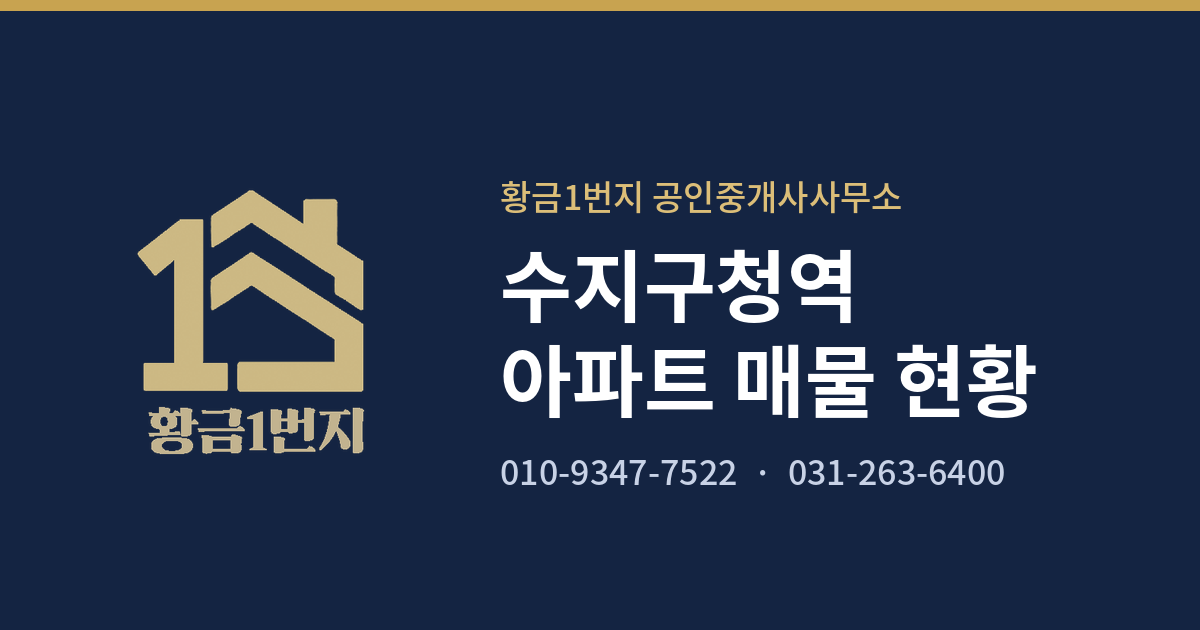
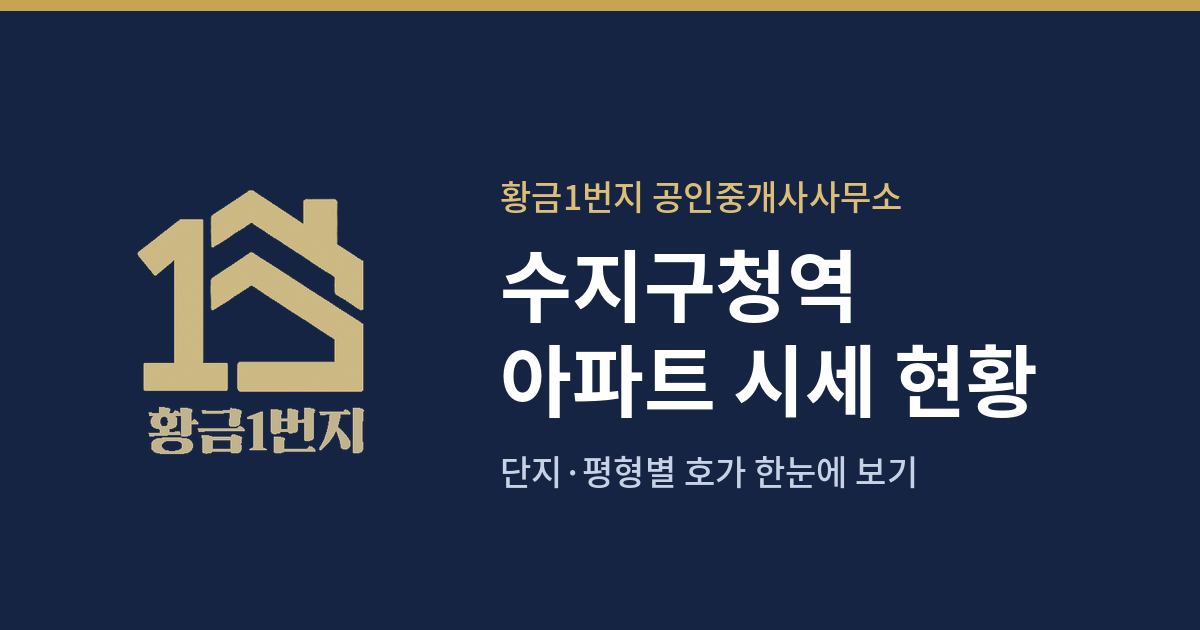
개별 매물 목록을 단지·평형별 호가 시세 페이지로 변경
Claude-Session: https://claude.ai/code/session_01WxQm7nJK9gw7HmsuEXQiTg

Changed region(s): [[0.4008, 0.7238, 0.8325, 0.7841], [0.6167, 0.5429, 0.74, 0.6635]]

diff --git a/index.html b/index.html
@@ -3,10 +3,10 @@
 <head>
 <meta charset="utf-8">
 <meta name="viewport" content="width=device-width, initial-scale=1">
-<title>수지구청역 아파트 매물 현황 | 황금1번지 공인중개사사무소</title>
-<meta name="description" content="수지구청역 아파트 매물 현황 · 황금1번지 공인중개사사무소 010-9347-7522 / 031-263-6400">
+<title>수지구청역 아파트 시세 현황 | 황금1번지 공인중개사사무소</title>
+<meta name="description" content="수지구청역 주변 아파트 단지·평형별 호가 시세 · 황금1번지 공인중개사사무소 010-9347-7522 / 031-263-6400">
 <meta property="og:type" content="website">
-<meta property="og:title" content="수지구청역 아파트 매물 현황">
+<meta property="og:title" content="수지구청역 아파트 시세 현황">
 <meta property="og:description" content="황금1번지 공인중개사사무소 · 010-9347-7522 / 031-263-6400">
 <meta property="og:url" content="https://kym07-30.github.io/">
 <meta property="og:site_name" content="황금1번지 공인중개사사무소">
@@ -162,6 +162,37 @@ input{-webkit-user-select:text;user-select:text}
   table.av tr.tsub + tr{border-top:0}
 }
 </style>
+<style>
+.note{font-size:13px;color:var(--muted);margin:-8px 0 0}
+.seg{display:inline-flex;border:1px solid var(--line);border-radius:10px;overflow:hidden;background:var(--surface)}
+.seg button{border:0;border-radius:0;padding:8px 18px;font-weight:600}
+.seg button[aria-pressed="true"]{background:var(--ink);color:var(--bg)}
+.cards{display:grid;grid-template-columns:repeat(auto-fill,minmax(340px,1fr));gap:14px}
+.mk{background:var(--surface);border:1px solid var(--line);border-radius:12px;padding:16px 18px;display:flex;flex-direction:column;gap:10px}
+.mk h2{margin:0;font-family:var(--font-display);font-size:18px;display:flex;align-items:baseline;gap:8px;flex-wrap:wrap}
+.mk h2 small{font-size:13px;font-weight:500;color:var(--muted)}
+.mk .med{font-family:var(--font-display);font-size:28px;font-weight:700;color:var(--gold);font-variant-numeric:tabular-nums;line-height:1.1}
+.mk .med span{font-size:13px;font-weight:500;color:var(--muted);margin-left:6px;font-family:var(--font-body)}
+.rng{position:relative;height:8px;border-radius:99px;background:var(--line);margin:14px 0 4px}
+.rng .bar{position:absolute;top:0;bottom:0;border-radius:99px;background:color-mix(in srgb,var(--gold) 45%,transparent)}
+.rng .dot{position:absolute;top:50%;width:14px;height:14px;border-radius:50%;background:var(--gold);border:2px solid var(--surface);transform:translate(-50%,-50%)}
+.rlab{display:flex;justify-content:space-between;font-size:12.5px;color:var(--muted);font-variant-numeric:tabular-nums}
+.rlab b{color:var(--ink);font-weight:600}
+.tags{display:flex;gap:6px;flex-wrap:wrap}
+.tag{font-size:12px;border-radius:6px;padding:2px 8px;background:var(--bg);color:var(--muted);border:1px solid var(--line)}
+.tag.new{background:#dcecff;color:#1d5fa8;border-color:transparent}
+.tag.dn{background:var(--wolse-soft);color:var(--wolse);border-color:transparent}
+.empty{padding:30px;text-align:center;color:var(--muted);border:1px dashed var(--line);border-radius:12px}
+.src{background:var(--surface);border:1px solid var(--line);border-radius:12px;padding:14px 18px;font-size:13px;color:var(--muted);line-height:1.7}
+.src b{color:var(--ink)}
+.src p{margin:0}
+.cta{display:flex;flex-wrap:wrap;gap:10px;align-items:center;justify-content:space-between;background:var(--navy);color:#fff;border-radius:12px;padding:16px 18px}
+.cta .t{font-family:var(--font-display);font-size:17px;font-weight:700}
+.cta .s{font-size:13px;opacity:.8}
+.cta button{background:var(--gold);color:#fff;border-color:var(--gold);font-weight:700;padding:10px 16px}
+@media (prefers-color-scheme: dark){.cta{background:#24304a}}
+@media (max-width:420px){.cards{grid-template-columns:1fr}}
+</style>
 </head>
 <body>
 <div class="wm" aria-hidden="true"></div>
@@ -177,7 +208,7 @@ input{-webkit-user-select:text;user-select:text}
 </div>
 <div class="toast" id="toast" hidden></div>
 <div class="wrap">
-  <section class="topbar" aria-label="중개사무소 정보">
+  <section class="topbar" aria-label="사무소 정보">
     <div class="office">
[1 lines of base64/hex data omitted]
       <div class="oname">황금1번지<br>공인중개사사무소</div>
@@ -190,225 +221,62 @@ input{-webkit-user-select:text;user-select:text}
   <header>
     <div>
       <div class="brand">황금1번지 공인중개사사무소</div>
-      <h1>수지구청역 아파트 매물 현황</h1>
+      <h1>수지구청역 아파트 시세 현황</h1>
     </div>
-    <div class="asof">2026년 11월 8일 기준</div>
+    <div class="asof">호가 기준 · 2026년 11월 8일 집계</div>
   </header>
 
-  <section class="stats" id="statsA" aria-label="계약가능 요약"></section>
-  <section class="controls" aria-label="필터">
-    <div class="chiprow" id="typeChipsA" role="group" aria-label="거래 유형"></div>
-    <div class="chiprow" id="groupChipsA" role="group" aria-label="단지·평형"></div>
-    <div class="chiprow" id="quickRow">
-      <label class="sortbox"><span class="lab">정렬</span>
-        <select id="sortA" aria-label="정렬">
-          <option value="dong">동 번호순</option>
-          <option value="priceAsc">낮은 가격순</option>
-          <option value="priceDesc">높은 가격순</option>
-          <option value="floorDesc">고층순</option>
-          <option value="floorAsc">저층순</option>
-        </select>
-      </label>
-      <button type="button" class="chip tog" id="tNew" aria-pressed="false">🆕 이번 주 신규만</button>
-      <button type="button" class="chip tog" id="tDown" aria-pressed="false">⬇ 가격 내린 매물만</button>
-    </div>
-    <details class="more" id="moreF">
-      <summary>상세 필터 <span class="morehint">가격대 · 입주 · 집 상태</span><span class="morecnt" id="moreCnt"></span></summary>
-      <div class="morebody">
-        <div class="chiprow" id="priceChips" role="group" aria-label="가격대"></div>
-        <div class="chiprow" id="moveChips" role="group" aria-label="입주 형태"></div>
-        <div class="chiprow" id="whenChips" role="group" aria-label="입주 시기"></div>
-        <div class="chiprow" id="condChips" role="group" aria-label="집 상태"></div>
-        <p class="fnote">입주·집 상태는 매물 메모를 기준으로 나눈 것이라 실제와 다를 수 있어요. 정확한 내용은 문의해 주세요.</p>
-      </div>
-    </details>
-    <input type="search" id="qA" placeholder="동, 층, 가격, 메모 검색">
-    <div class="resbar"><span id="resCnt"></span><button type="button" id="resetF" hidden>필터 초기화</button></div>
+  <p class="note">수지구청역 주변 아파트의 단지·평형별 <b>호가(집주인이 내놓은 희망 가격)</b> 분포를 한눈에 볼 수 있게 정리했어요. 실제 거래가격이 아니에요.</p>
+  <section class="stats" id="stats" aria-label="요약"></section>
+  <section class="controls" aria-label="보기">
+    <div class="chiprow"><div class="seg" role="group" aria-label="거래 유형"><button type="button" data-t="sale" aria-pressed="true">매매</button><button type="button" data-t="jeon" aria-pressed="false">전세</button></div></div>
+    <div class="chiprow" id="cxChips" role="group" aria-label="단지"></div>
   </section>
-  <div id="listA" style="display:flex;flex-direction:column;gap:16px" aria-live="polite"></div>
-
-  <footer>2026년 11월 8일 기준 계약 가능한 매물입니다. 가격·상태는 바뀔 수 있으니 문의 시 다시 확인해 주세요. · 황금1번지 공인중개사사무소 010-9347-7522 / 031-263-6400 · 무단 복제·배포를 금합니다.</footer>
+  <section class="cards" id="cards" aria-live="polite"></section>
+  <section class="cta"><div><div class="t">원하는 조건의 집이 있는지 궁금하세요?</div><div class="s">단지·평형·층·입주 시기에 맞춰 바로 안내해 드려요.</div></div><button type="button" class="tel" data-num="010-9347-7522" data-sms="1">문의하기</button></section>
+  <section class="src">
+    <p><b>데이터 출처 · 집계 기준</b></p>
+    <p>· 네이버 부동산 등록 매물의 호가를 황금1번지가 단지·평형별로 정리했어요 (2026.11.08 기준).</p>
+    <p>· 호가는 매도·임대 희망가격이며 실제 거래가격이 아니에요. 같은 매물이 여러 번 등록된 경우 일부 중복될 수 있어요.</p>
+    <p>· 중간 호가 = 같은 단지·평형 호가를 낮은 순으로 세웠을 때 한가운데 가격(중앙값)이에요.</p>
+    <p>· 집마다 조건이 달라 모든 수치는 참고자료로만 활용해 주세요.</p>
+  </section>
+  <footer>황금1번지 공인중개사사무소 · 010-9347-7522 / 031-263-6400 · 무단 복제·배포를 금합니다.</footer>
 </div>
 
 <script>
 (function(){
-  // g 단지·평형, k 순서, t 거래, c 구분, d 동, f 층, p 가격, m 상태·메모, x 가격변동, n 이번 주 신규
-  const DATA = [{"g": "삼성5차 34평", "k": 101, "t": "매매", "c": "삼성5차 34", "d": "510", "f": "9/14", "p": "14.9", "m": "기본 관리잘됨,/ 15->14.9", "x": "15→14.9", "n": 0}, {"g": "삼성5차 34평", "k": 101, "t": "매매", "c": "삼성5차 34", "d": "515", "f": "1/17", "p": "13.6", "m": "세안고.28.2 /5.72/갱신사용", "x": "", "n": 0}, {"g": "삼성5차 34평", "k": 101, "t": "매매", "c": "삼성5차 34", "d": "515", "f": "9/17", "p": "15", "m": "28.2.4 / 세안고", "x": "15.5→15", "n": 0}, {"g": "삼성5차 34평", "k": 101, "t": "매매", "c": "삼성5차 34", "d": "515", "f": "14/17", "p": "15", "m": "협의.부분/깔끔/확장x. 3~4", "x": "", "n": 0}, {"g": "삼성5차 34평", "k": 101, "t": "매매", "c": "삼성5차 34", "d": "516", "f": "10/14", "p": "14.9", "m": "약15년 수리/ 전망좋음/ 주인거주 깔끔", "x": "", "n": 0}, {"g": "삼성5차 34평", "k": 101, "t": "매매", "c": "삼성5차 34", "d": "518", "f": "9/12", "p": "15", "m": "부분수리(상태좋음)/ 입주협 / 3호", "x": "", "n": 0}, {"g": "삼성5차 34평", "k": 101, "t": "매매", "c": "삼성5차 34", "d": "523", "f": "7/19", "p": "15", "m": "올수리 27.3 이후입주", "x": "", "n": 0}, {"g": "삼성5차 34평", "k": 101, "t": "매매", "c": "삼성5차 34", "d": "523", "f": "12/19", "p": "14.8", "m": "기본.27.2.28  / 15->14.8", "x": "15→14.8", "n": 0}, {"g": "삼성5차 34평", "k": 101, "t": "매매", "c": "삼성5차 34", "d": "524", "f": "6/10", "p": "14.8", "m": "확장x기본 협의", "x": "", "n": 0}, {"g": "삼성5차 34평", "k": 101, "t": "전세", "c": "삼성5차 34", "d": "526", "f": "15/19", "p": "7.5", "m": "기본, 12.10", "x": "", "n": 0}, {"g": "삼성5차 50평", "k": 2801, "t": "매매", "c": "삼성5차 50", "d": "504", "f": "6/10", "p": "18.5", "m": "올수리,시에포함,", "x": "", "n": 0}, {"g": "삼성5차 50평", "k": 2801, "t": "매매", "c": "삼성5차 50", "d": "509", "f": "저/17", "p": "16", "m": "세안고 27.10", "x": "", "n": 0}, {"g": "삼성5차 50평", "k": 2801, "t": "매매", "c": "삼성5차 50", "d": "522", "f": "2/19", "p": "14.5", "m": "화이트 올수리/공실 /201", "x": "14-14.5", "n": 0}, {"g": "삼성5차 50평", "k": 2801, "t": "매매", "c": "삼성5차 50", "d": "522", "f": "6/19", "p": "14.5", "m": "부분수리(욕실)/세안고 27.6", "x": "", "n": 0}, {"g": "삼성5차 50평", "k": 2801, "t": "매매", "c": "삼성5차 50", "d": "525", "f": "15/19", "p": "15.5", "m": "올수리/트인뷰/평일오후/27.2/ 1호", "x": "", "n": 0}, {"g": "삼성5차 50평", "k": 2801, "t": "매매", "c": "삼성5차 50", "d": "525", "f": "13/19", "p": "16.8", "m": "작은방3확장/3~4년수리/", "x": "", "n": 0}, {"g": "삼성6차·7차 63·64평", "k": 4801, "t": "매매", "c": "삼성6차 64", "d": "611", "f": "고/10", "p": "17", "m": "입주협/27.2.28", "x": "", "n": 1}, {"g": "삼성6차·7차 63·64평", "k": 4801, "t": "매매", "c": "삼성7차 63", "d": "705", "f": "3/12", "p": "16", "m": "기본,27.01", "x": "", "n": 0}, {"g": "삼성6차·7차 63·64평", "k": 4801, "t": "매매", "c": "삼성7차 63", "d": "706", "f": "5/13", "p": "16.5", "m": "협의,기본", "x": "", "n": 0}, {"g": "삼성6차·7차 63·64평", "k": 4801, "t": "매매", "c": "삼성7차 63", "d": "706", "f": "13/13", "p": "16", "m": "화올/탑층/다락/방4", "x": "", "n": 0}, {"g": "삼성6차·7차 63·64평", "k": 4801, "t": "전세", "c": "삼성7차 63", "d": "705", "f": "8/12", "p": "8", "m": "싱크,욕실수리", "x": "", "n": 0}, {"g": "성원상떼빌 24/18평", "k": 6601, "t": "매매", "c": "성원 24", "d": "109", "f": "12/20", "p": "9.6", "m": "방거확/ 협의", "x": "", "n": 0}, {"g": "성원상떼빌 24/18평", "k": 6601, "t": "매매", "c": "성24", "d": "110", "f": "8/20", "p": "9.8", "m": "입주협/ 방거확,부분수리", "x": "", "n": 1}, {"g": "성원상떼빌 24/18평", "k": 6601, "t": "매매", "c": "성 24", "d": "110", "f": "15/20", "p": "9.6", "m": "샷시포함 올수리.", "x": "", "n": 0}, {"g": "성원상떼빌 24/18평", "k": 6601, "t": "매매", "c": "성24", "d": "111", "f": "13/20", "p": "9.6", "m": "정상입주 기본", "x": "", "n": 0}, {"g": "성원상떼빌 24/18평", "k": 6601, "t": "매매", "c": "성24", "d": "113", "f": "15/20", "p": "9.5", "m": "샷포올수리", "x": "", "n": 0}, {"g": "성원상떼빌 24/18평", "k": 6601, "t": "매매", "c": "성24", "d": "113", "f": "11/20", "p": "9.4", "m": "부분수리.중간라인,27.3", "x": "", "n": 0}, {"g": "성원상떼빌 24/18평", "k": 6601, "t": "매매", "c": "성24", "d": "114", "f": "5/20", "p": "9.3", "m": "27.3/ 기본", "x": "", "n": 0}, {"g": "성원상떼빌 24/18평", "k": 6601, "t": "매매", "c": "성 24", "d": "114", "f": "중/20", "p": "9.2", "m": "방1확/입주협의", "x": "", "n": 0}, {"g": "성원상떼빌 24/18평", "k": 6601, "t": "매매", "c": "성24", "d": "114", "f": "11/20", "p": "9.4", "m": "방확장올수리.27.2.26이후", "x": "", "n": 0}, {"g": "성원상떼빌 24/18평", "k": 6601, "t": "매매", "c": "성24", "d": "114", "f": "고/20", "p": "9.7", "m": "최근 샷포올수리,", "x": "", "n": 0}, {"g": "성원상떼빌 24/18평", "k": 6601, "t": "전세", "c": "성24", "d": "110", "f": "13/20", "p": "5", "m": "27.2.16 .기본", "x": "", "n": 0}, {"g": "성원상떼빌 24/18평", "k": 6601, "t": "월세", "c": "성 24", "d": "110", "f": "고/20", "p": "1/160", "m": "샷시포함 올수리.", "x": "", "n": 0}, {"g": "삼성5차 44평", "k": 111, "t": "매매", "c": "삼성5차 44", "d": "501", "f": "16/17", "p": "15.8", "m": "세안고 27.12", "x": "16.5→15.8", "n": 0}, {"g": "삼성5차 44평", "k": 111, "t": "매매", "c": "삼성5차 44", "d": "514", "f": "7/17", "p": "16", "m": "긴잔금가능. 기본", "x": "", "n": 0}, {"g": "삼성5차 44평", "k": 111, "t": "매매", "c": "삼성5차 44", "d": "520", "f": "1/19", "p": "13", "m": "세안고 27.11", "x": "", "n": 0}, {"g": "삼성5차 44평", "k": 111, "t": "매매", "c": "삼성5차 44", "d": "520", "f": "6/19", "p": "16", "m": "방2확장/기본  10월 외국", "x": "", "n": 0}, {"g": "삼성5차 44평", "k": 111, "t": "매매", "c": "삼성5차 44", "d": "520", "f": "9/19", "p": "15.5", "m": "세안고 27.07", "x": "", "n": 0}, {"g": "삼성5차 44평", "k": 111, "t": "매매", "c": "삼성5차 44", "d": "520", "f": "10/19", "p": "16", "m": "특올 확장.시에4 협", "x": "", "n": 0}, {"g": "삼성5차 44평", "k": 111, "t": "매매", "c": "삼성5차 44", "d": "520", "f": "17/19", "p": "15.6", "m": "기본. 협의", "x": "", "n": 0}, {"g": "삼성5차 44평", "k": 111, "t": "매매", "c": "삼성5차 44", "d": "520", "f": "18/19", "p": "15.5", "m": "기본,채광,협의", "x": "", "n": 1}, {"g": "삼성5차 44평", "k": 111, "t": "매매", "c": "삼성5차 44", "d": "521", "f": "저/19", "p": "15", "m": "부분수리/세안고 27.8/2층", "x": "", "n": 0}, {"g": "삼성5차 44평", "k": 111, "t": "매매", "c": "삼성5차 44", "d": "521", "f": "6/19", "p": "14.9", "m": "27.1.11 기본/ 6.2억보증금", "x": "15.8→15.5", "n": 0}, {"g": "삼성5차 44평", "k": 111, "t": "전세", "c": "삼성5차 44", "d": "512", "f": "11/17", "p": "8", "m": "입주협의", "x": "", "n": 0}, {"g": "삼성5차 44평", "k": 111, "t": "전세", "c": "삼성5차 44", "d": "521", "f": "12/19", "p": "8.5", "m": "협의.기본", "x": "", "n": 0}, {"g": "삼성5차 44평", "k": 111, "t": "월세", "c": "삼성5차 44", "d": "520", "f": "중/19", "p": "1/300", "m": "최근 수리깔끔.공실 /12층", "x": "", "n": 0}, {"g": "삼성5차 44평", "k": 111, "t": "월세", "c": "삼성5차 44", "d": "521", "f": "17/19", "p": "4.5~160\n5~140", "m": "올수리 깔끔 1~2월입주협의", "x": "", "n": 0}, {"g": "삼성5차 59평", "k": 2811, "t": "매매", "c": "삼성5차 59", "d": "505", "f": "4/10", "p": "17", "m": "세안고27.2/", "x": "", "n": 0}, {"g": "삼성5차 59평", "k": 2811, "t": "매매", "c": "삼성5차 59", "d": "505", "f": "저/10", "p": "16", "m": "아이좋음.기본", "x": "", "n": 0}, {"g": "삼성5차 59평", "k": 2811, "t": "전세", "c": "삼성5차 59", "d": "505", "f": "301/10", "p": "9.5", "m": "27.3말/ 기본/ 부분수리", "x": "", "n": 1}, {"g": "삼성7차 75평", "k": 4811, "t": "매매", "c": "삼성7차 75", "d": "707", "f": "3/9", "p": "18", "m": "특올수리", "x": "", "n": 0}, {"g": "삼성7차 75평", "k": 4811, "t": "매매", "c": "삼성7차 75", "d": "708", "f": "6/12", "p": "18.5", "m": "특올,시에완(사진)", "x": "", "n": 0}, {"g": "삼성7차 75평", "k": 4811, "t": "매매", "c": "삼성7차 75", "d": "708", "f": "7/12", "p": "16", "m": "기본", "x": "", "n": 0}, {"g": "성원상떼빌 32/25평", "k": 6611, "t": "매매", "c": "성원32", "d": "101", "f": "11/20", "p": "10", "m": "세안고. 28.01", "x": "10.2→10.4", "n": 0}, {"g": "성원상떼빌 32/25평", "k": 6611, "t": "매매", "c": "성원32", "d": "103", "f": "12/20", "p": "11", "m": "부분수리.협의", "x": "", "n": 1}, {"g": "성원상떼빌 32/25평", "k": 6611, "t": "매매", "c": "성원32", "d": "103", "f": "고/20", "p": "10.8", "m": "입주협의", "x": "", "n": 0}, {"g": "성원상떼빌 32/25평", "k": 6611, "t": "매매", "c": "성원32", "d": "104", "f": "2/20", "p": "10", "m": "샷포올수리. 27.2.6", "x": "9.6→10", "n": 0}, {"g": "성원상떼빌 32/25평", "k": 6611, "t": "매매", "c": "성32", "d": "102", "f": "17/20", "p": "11", "m": "샷포 올수리", "x": "", "n": 0}, {"g": "성원상떼빌 32/25평", "k": 6611, "t": "전세", "c": "성32", "d": "101", "f": "저/20", "p": "5.6", "m": "화,싱,최근수리", "x": "5.5-5.8", "n": 0}, {"g": "성원상떼빌 32/25평", "k": 6611, "t": "전세", "c": "성 32", "d": "102", "f": "4/20", "p": "5.5", "m": "중간, 부분수리. 협의", "x": "", "n": 0}, {"g": "성원상떼빌 32/25평", "k": 6611, "t": "전세", "c": "성32", "d": "103", "f": "1/20", "p": "6", "m": "거,방확.올수리/협의", "x": "", "n": 0}, {"g": "성원상떼빌 32/25평", "k": 6611, "t": "전세", "c": "성원32", "d": "105", "f": "18/20", "p": "5.2", "m": "기본", "x": "", "n": 0}, {"g": "성원상떼빌 32/25평", "k": 6611, "t": "전세", "c": "성32", "d": "106", "f": "2/20", "p": "5.4", "m": "수리/27.1중", "x": "5.6→5.4", "n": 0}, {"g": "성원상떼빌 32/25평", "k": 6611, "t": "전세", "c": "성32", "d": "104", "f": "4/20", "p": "5.9", "m": "방확/샷포올수리 예정", "x": "", "n": 0}, {"g": "성원상떼빌 32/25평", "k": 6611, "t": "전세", "c": "성32", "d": "101", "f": "고/20", "p": "5.7", "m": "부분수리 꺠끗,방1확/27.1.30", "x": "", "n": 0}, {"g": "성원상떼빌 32/25평", "k": 6611, "t": "월세", "c": "성32", "d": "106", "f": "11/20", "p": "500/320", "m": "올확, 샷포/단기", "x": "", "n": 0}, {"g": "성원상떼빌 32/25평", "k": 6611, "t": "월세", "c": "성원 32", "d": "102", "f": "1/20", "p": "3.2/50", "m": "올수리/ 27.1.11이후", "x": "", "n": 0}, {"g": "푸르지오 34·43평", "k": 121, "t": "매매", "c": "푸34", "d": "101", "f": "중/25", "p": "13.8", "m": "트인전망.기본", "x": "", "n": 0}, {"g": "푸르지오 34·43평", "k": 121, "t": "매매", "c": "푸34", "d": "101", "f": "14/25", "p": "13.8", "m": "입주협의", "x": "", "n": 0}, {"g": "푸르지오 34·43평", "k": 121, "t": "매매", "c": "푸34", "d": "101", "f": "고/25", "p": "13", "m": "세안고28.09/후대O", "x": "", "n": 0}, {"g": "푸르지오 34·43평", "k": 121, "t": "매매", "c": "푸 34", "d": "104", "f": "4/19", "p": "14", "m": "입주협", "x": "", "n": 0}, {"g": "푸르지오 34·43평", "k": 121, "t": "매매", "c": "푸34", "d": "104", "f": "6/19", "p": "13", "m": "27.01중순협.남동", "x": "", "n": 0}, {"g": "푸르지오 34·43평", "k": 121, "t": "매매", "c": "푸 34", "d": "104", "f": "8/19", "p": "13.2", "m": "입주협의,판상", "x": "", "n": 0}, {"g": "푸르지오 34·43평", "k": 121, "t": "매매", "c": "푸34", "d": "104", "f": "16/19", "p": "14", "m": "협의", "x": "", "n": 0}, {"g": "푸르지오 34·43평", "k": 121, "t": "매매", "c": "푸34", "d": "106", "f": "5/25", "p": "14", "m": "남향/27.04", "x": "", "n": 0}, {"g": "푸르지오 34·43평", "k": 121, "t": "매매", "c": "푸34", "d": "106", "f": "중/25", "p": "13.9", "m": "판상.기본.입주", "x": "", "n": 1}, {"g": "푸르지오 34·43평", "k": 121, "t": "매매", "c": "푸 43", "d": "105", "f": "3/16", "p": "15.3", "m": "남향. 협의", "x": "", "n": 0}, {"g": "푸르지오 34·43평", "k": 121, "t": "전세", "c": "푸34", "d": "102", "f": "11/25", "p": "7.6", "m": "27.2하순/", "x": "", "n": 0}, {"g": "푸르지오 34·43평", "k": 121, "t": "월세", "c": "푸34", "d": "101", "f": "6/25", "p": "2/210", "m": "27.01.29 산전망.", "x": "", "n": 0}, {"g": "삼성6차·7차 51·53평", "k": 2821, "t": "매매", "c": "삼성7차 710", "d": "710", "f": "5/17", "p": "15", "m": "화이트수리/방2확/뷰좋음", "x": "", "n": 0}, {"g": "삼성6차·7차 51·53평", "k": 2821, "t": "매매", "c": "삼성7차 51,53", "d": "710", "f": "8/17", "p": "15", "m": "부분수리", "x": "", "n": 0}, {"g": "삼성6차·7차 51·53평", "k": 2821, "t": "매매", "c": "삼성7차 51", "d": "710", "f": "5/17", "p": "16", "m": "기본,", "x": "", "n": 0}, {"g": "삼성6차·7차 51·53평", "k": 2821, "t": "매매", "c": "삼성6차 53", "d": "606", "f": "10/12", "p": "17.2", "m": "특올.방2확장.시에", "x": "17.7→17.2", "n": 0}, {"g": "삼성6차·7차 51·53평", "k": 2821, "t": "전세", "c": "삼성7차 51", "d": "710", "f": "저/17", "p": "7.5", "m": "신규도배조건.주인거주", "x": "", "n": 0}, {"g": "삼성6차·7차 51·53평", "k": 2821, "t": "전세", "c": "삼성6차 53", "d": "606", "f": "10/12", "p": "10.5", "m": "올수리. 시에5", "x": "", "n": 0}, {"g": "삼성7차 85평", "k": 4821, "t": "매매", "c": "삼성7차 85", "d": "703", "f": "9/12", "p": "15", "m": "기본", "x": "", "n": 0}, {"g": "삼성7차 85평", "k": 4821, "t": "매매", "c": "삼성7차 85", "d": "703", "f": "2/12", "p": "15", "m": "정원전망", "x": "", "n": 0}, {"g": "성원상떼빌 48/40평", "k": 6621, "t": "매매", "c": "성원48", "d": "115", "f": "1/20", "p": "9.5", "m": "방1확장/부분수리", "x": "", "n": 0}, {"g": "성원상떼빌 48/40평", "k": 6621, "t": "매매", "c": "성48", "d": "115", "f": "3/20", "p": "10.5", "m": "샷포올수리/", "x": "10-10.5", "n": 0}, {"g": "성원상떼빌 48/40평", "k": 6621, "t": "매매", "c": "성원 48", "d": "115", "f": "6/20", "p": "10.9", "m": "27.2입주/ 올수리", "x": "", "n": 0}, {"g": "성원상떼빌 48/40평", "k": 6621, "t": "전세", "c": "성48", "d": "119", "f": "5/20", "p": "7\n5.5/80", "m": "수리,깔끔", "x": "", "n": 0}, {"g": "성원상떼빌 48/40평", "k": 6621, "t": "월세", "c": "성48", "d": "115", "f": "4/20", "p": "4/120\n3/160", "m": "부분수리/12초", "x": "", "n": 0}, {"g": "성원상떼빌 48/40평", "k": 6621, "t": "월세", "c": "성48", "d": "116", "f": "8/20", "p": "2/180", "m": "부분수리. 27.2.16", "x": "", "n": 0}];
+  const AGG = {"groups": [{"cx": "삼성5차", "py": "34평", "k": 101, "sale": {"n": 9, "min": 13.6, "med": 14.9, "max": 15.0}, "jeon": {"n": 1, "min": 7.5, "med": 7.5, "max": 7.5}, "wol": 0, "new": 0, "down": 3}, {"cx": "삼성5차", "py": "44평", "k": 111, "sale": {"n": 10, "min": 13.0, "med": 15.55, "max": 16.0}, "jeon": {"n": 2, "min": 8.0, "med": 8.25, "max": 8.5}, "wol": 2, "new": 1, "down": 2}, {"cx": "푸르지오", "py": "34·43평", "k": 121, "sale": {"n": 10, "min": 13.0, "med": 13.85, "max": 15.3}, "jeon": {"n": 1, "min": 7.6, "med": 7.6, "max": 7.6}, "wol": 1, "new": 1, "down": 0}, {"cx": "삼성5차", "py": "50평", "k": 2801, "sale": {"n": 6, "min": 14.5, "med": 15.75, "max": 18.5}, "jeon": null, "wol": 0, "new": 0, "down": 0}, {"cx": "삼성5차", "py": "59평", "k": 2811, "sale": {"n": 2, "min": 16.0, "med": 16.5, "max": 17.0}, "jeon": {"n": 1, "min": 9.5, "med": 9.5, "max": 9.5}, "wol": 0, "new": 1, "down": 0}, {"cx": "삼성6차·7차", "py": "51·53평", "k": 2821, "sale": {"n": 4, "min": 15.0, "med": 15.5, "max": 17.2}, "jeon": {"n": 2, "min": 7.5, "med": 9.0, "max": 10.5}, "wol": 0, "new": 0, "down": 1}, {"cx": "삼성6차·7차", "py": "63·64평", "k": 4801, "sale": {"n": 4, "min": 16.0, "med": 16.25, "max": 17.0}, "jeon": {"n": 1, "min": 8.0, "med": 8.0, "max": 8.0}, "wol": 0, "new": 1, "down": 0}, {"cx": "삼성7차", "py": "75평", "k": 4811, "sale": {"n": 3, "min": 16.0, "med": 18.0, "max": 18.5}, "jeon": null, "wol": 0, "new": 0, "down": 0}, {"cx": "삼성7차", "py": "85평", "k": 4821, "sale": {"n": 2, "min": 15.0, "med": 15.0, "max": 15.0}, "jeon": null, "wol": 0, "new": 0, "down": 0}, {"cx": "성원상떼빌", "py": "24/18평", "k": 6601, "sale": {"n": 10, "min": 9.2, "med": 9.55, "max": 9.8}, "jeon": {"n": 1, "min": 5.0, "med": 5.0, "max": 5.0}, "wol": 1, "new": 1, "down": 0}, {"cx": "성원상떼빌", "py": "32/25평", "k": 6611, "sale": {"n": 5, "min": 10.0, "med": 10.8, "max": 11.0}, "jeon": {"n": 7, "min": 5.2, "med": 5.6, "max": 6.0}, "wol": 2, "new": 1, "down": 1}, {"cx": "성원상떼빌", "py": "48/40평", "k": 6621, "sale": {"n": 3, "min": 9.5, "med": 10.5, "max": 10.9}, "jeon": {"n": 1, "min": 7.0, "med": 7.0, "max": 7.0}, "wol": 2, "new": 0, "down": 0}], "tot": {"all": 93, "sale": 68, "jeon": 17, "wol": 8, "new": 6, "down": 7}};
   const $ = id => document.getElementById(id);
   document.addEventListener("contextmenu", e => e.preventDefault());
   const esc = s => String(s ?? "").replace(/[&<>"]/g, c => ({"&":"&amp;","<":"&lt;",">":"&gt;",'"':"&quot;"}[c]));
-  const norm = s => String(s ?? "").replace(/\s+/g, "");
-  let typeA = "전체", groupA = "전체";
-  const F0 = {sort: "dong", price: "전체", move: "전체", when: "전체", cond: "전체", nw: false, down: false};
-  let F = Object.assign({}, F0);
-  const closedG = new Set();
-  try { (JSON.parse(localStorage.getItem("pubClosedGroups") || "[]")).forEach(g => closedG.add(g)); } catch(_){}
-  function saveClosed(){ try { localStorage.setItem("pubClosedGroups", JSON.stringify(Array.from(closedG))); } catch(_){} }
-
-  function fmtPrice(p){
-    if (p == null || p === "") return "-";
-    const n = Number(String(p).replace(/,/g, ""));
-    if (!isFinite(n)) return esc(p);
-    if (n >= 100) return n.toLocaleString("ko-KR") + "만";
-    const eok = Math.floor(n + 1e-9), man = Math.round((n - eok) * 10000);
-    if (!man) return eok + "억";
-    return (eok ? eok + "억 " : "") + man.toLocaleString("ko-KR") + "만";
-  }
-  function floorVal(f){
-    const t = String(f || ""), tot = Number((t.split("/")[1] || "").replace(/\D/g, "")) || 30;
-    const head = t.split("/")[0].trim();
-    if (/^\d+$/.test(head)) return Number(head);
-    if (head.startsWith("저")) return 0.5;
-    if (head.startsWith("중")) return tot / 2;
-    if (head.startsWith("고") || head.startsWith("탑")) return tot - 0.5;
-    return 9999;
-  }
-  const dongVal = d => { const m = String(d || "").match(/\d+/); return m ? Number(m[0]) : 99999; };
-  const isSean = i => /세\s*안\s*고/.test(i.m || "");
-  const isNum = v => /^\d+(\.\d+)?$/.test(String(v).trim());
-  const fmtFloor = f => f ? (/\d$/.test(f) ? f + "층" : f) : "-";
-  const fmtDong = d => d ? (/^\d+$/.test(d) ? d + "동" : d) : "-";
-  const typeClass = t => t === "매매" ? "sale" : t === "전세" ? "jeonse" : t === "월세" ? "wolse" : "other";
-
-  // ---------- 필터용 분류 ----------
-  const priceNum = i => { const m = String(i.p || "").match(/\d+(\.\d+)?/); return m ? Number(m[0]) : null; };
-  const BANDS = {
-    "매매": [["~10억", 0, 10], ["10~13억", 10, 13], ["13~15억", 13, 15], ["15억 이상", 15, 1e9]],
-    "전세": [["~6억", 0, 6], ["6~8억", 6, 8], ["8억 이상", 8, 1e9]]
-  };
-  function inBand(i, label){
-    const b = (BANDS[i.t] || []).find(x => x[0] === label); if (!b) return false;
-    const v = priceNum(i); return v != null && v >= b[1] && v < b[2];
-  }
-  const moveOf = i => isSean(i) ? "세안고(투자용)" : "실입주 가능";
-  function whenOf(i){
-    const m = i.m || "";
-    if (/공실|정상\s*입주|즉시/.test(m)) return "27년 상반기까지";
-    const d = m.match(/(?:^|[^\d.])(2[6-9])\s*[.]\s*(\d{1,2})(?!\d)/);
-    if (d){ const ym = (2000 + +d[1]) * 100 + +d[2]; return ym <= 202706 ? "27년 상반기까지" : "27년 하반기 이후"; }
-    return "협의·미정";
-  }
-  const isFull = i => /올\s*수리|특올|화올|화이트|올확|샷포\s*올/.test(i.m || "");
-  const isExp = i => /확장(?!\s*[xX])|확(?!장)/.test(i.m || "");
-  function condOk(i, c){
-    const m = i.m || "";
-    if (c === "올수리·특올") return isFull(i);
-    if (c === "부분수리") return !isFull(i) && /부분|수리/.test(m);
-    if (c === "기본") return !isFull(i) && /기본/.test(m);
-    if (c === "확장") return isExp(i);
-    return true;
-  }
-  function isDown(i){ const n = String(i.x || "").match(/\d+(\.\d+)?/g); return !!n && n.length >= 2 && Number(n[n.length-1]) < Number(n[0]); }
-  function chipRow(id, label, opts, cur, key, counts){
-    $(id).innerHTML = `<span class="lab">${label}</span>` + opts.map(o =>
-      `<button type="button" class="chip" data-k="${key}" data-v="${esc(o)}" aria-pressed="${o === cur}"${counts && o !== "전체" && !counts[o] ? " disabled" : ""}>${esc(o)}${counts && o !== "전체" ? ` ${counts[o] || 0}` : ""}</button>`).join("");
-  }
-  function cmp(a, b){
-    const s = F.sort;
-    if (s === "priceAsc" || s === "priceDesc"){
-      const pa = priceNum(a), pb = priceNum(b);
-      if (pa == null && pb == null) return 0; if (pa == null) return 1; if (pb == null) return -1;
-      return s === "priceAsc" ? pa - pb : pb - pa;
-    }
-    if (s === "floorDesc" || s === "floorAsc"){
-      const fa = floorVal(a.f), fb = floorVal(b.f);
-      if (fa === 9999 && fb === 9999) return 0; if (fa === 9999) return 1; if (fb === 9999) return -1;
-      return s === "floorAsc" ? fa - fb : fb - fa;
-    }
-    return dongVal(a.d) - dongVal(b.d) || floorVal(a.f) - floorVal(b.f);
-  }
-
+  let T = "sale", CX = "전체";
+  function eok(n){ const e = Math.floor(n + 1e-9), m = Math.round((n - e) * 10000); return m ? (e ? e + "억 " : "") + m.toLocaleString("ko-KR") + "만" : e + "억"; }
+  function short(n){ return (Math.round(n * 100) / 100) + "억"; }
   function render(){
-    const all = DATA;
-    const cnt = t => all.filter(i => i.t === t).length;
-    $("statsA").innerHTML = [
-      ["계약가능 매물", all.length, "건"], ["매매", cnt("매매"), "건"], ["전세", cnt("전세"), "건"],
-      ["월세", cnt("월세"), "건"], ["이번 주 신규", all.filter(i => i.n).length, "건"]
-    ].map(([k,v,u]) => `<div class="stat"><div class="k">${k}</div><div class="v">${v}<small>${u}</small></div></div>`).join("");
-
-    const types = ["전체", "매매", "전세", "월세"].filter(t => t === "전체" || cnt(t));
-    $("typeChipsA").innerHTML = `<span class="lab">거래</span>` + types.map(t =>
-      `<button type="button" class="chip" data-ta="${t}" aria-pressed="${t===typeA}">${t} ${t === "전체" ? all.length : cnt(t)}</button>`).join("");
-    const groups = [];
-    all.slice().sort((a,b) => a.k - b.k).forEach(i => { if (!groups.includes(i.g)) groups.push(i.g); });
-    $("groupChipsA").innerHTML = `<span class="lab">단지·평형</span>` + ["전체", ...groups].map(g =>
-      `<button type="button" class="chip" data-ga="${esc(g)}" aria-pressed="${g===groupA}">${esc(g)}</button>`).join("");
-
-    const q = $("qA").value.trim().toLowerCase();
-    const base = all.filter(i => (typeA === "전체" || i.t === typeA) && (groupA === "전체" || i.g === groupA));
-    const pass = (i, skip) =>
-      (skip === "price" || F.price === "전체" || inBand(i, F.price)) &&
-      (skip === "move" || F.move === "전체" || moveOf(i) === F.move) &&
-      (skip === "when" || F.when === "전체" || whenOf(i) === F.when) &&
-      (skip === "cond" || F.cond === "전체" || condOk(i, F.cond)) &&
-      (!F.nw || i.n) && (!F.down || isDown(i)) &&
-      (!q || [i.g, i.c, i.d, i.f, i.p, i.m, i.t].join(" ").toLowerCase().includes(q));
-    const countBy = (skip, fn, opts) => { const c = {}; base.filter(i => pass(i, skip)).forEach(i => opts.forEach(o => { if (fn(i, o)) c[o] = (c[o] || 0) + 1; })); return c; };
-    // 가격대: 매매·전세를 골랐을 때만
-    if (BANDS[typeA]){
-      const opts = BANDS[typeA].map(b => b[0]);
-      if (F.price !== "전체" && !opts.includes(F.price)) F.price = "전체";
-      chipRow("priceChips", "가격대", ["전체", ...opts], F.price, "price", countBy("price", inBand, opts));
-    } else {
-      F.price = "전체";
-      $("priceChips").innerHTML = `<span class="lab">가격대</span><span class="fnote">위의 ‘거래’에서 매매나 전세를 고르면 가격대를 고를 수 있어요.</span>`;
-    }
-    const MV = ["실입주 가능", "세안고(투자용)"], WH = ["27년 상반기까지", "27년 하반기 이후", "협의·미정"], CD = ["올수리·특올", "부분수리", "기본", "확장"];
-    chipRow("moveChips", "입주 형태", ["전체", ...MV], F.move, "move", countBy("move", (i, o) => moveOf(i) === o, MV));
-    chipRow("whenChips", "입주 시기", ["전체", ...WH], F.when, "when", countBy("when", (i, o) => whenOf(i) === o, WH));
-    chipRow("condChips", "집 상태", ["전체", ...CD], F.cond, "cond", countBy("cond", condOk, CD));
-    const nMore = ["price", "move", "when", "cond"].filter(k => F[k] !== "전체").length;
-    $("moreCnt").textContent = nMore ? nMore + "개 적용" : "";
-    $("tNew").setAttribute("aria-pressed", String(F.nw));
-    $("tDown").setAttribute("aria-pressed", String(F.down));
-    $("sortA").value = F.sort;
-    let list = base.filter(i => pass(i));
-    const anyF = nMore || F.nw || F.down || q || typeA !== "전체" || groupA !== "전체";
-    $("resCnt").innerHTML = `조건에 맞는 매물 <b>${list.length}</b>건`;
-    $("resetF").hidden = !anyF;
-    if (!list.length){ $("listA").innerHTML = `<div class="empty">조건에 맞는 매물이 없습니다. ‘필터 초기화’를 눌러 보세요.</div>`; return; }
-    const order = {"매매": 0, "전세": 1, "월세": 2};
-    const byG = new Map();
-    list.slice().sort((a,b) => a.k - b.k).forEach(i => { if (!byG.has(i.g)) byG.set(i.g, []); byG.get(i.g).push(i); });
-    $("listA").innerHTML = `<div class="foldall"><button type="button" data-fold="open">모두 펼치기</button><button type="button" data-fold="close">모두 접기</button></div>` + Array.from(byG.entries()).map(([g, arr]) => {
-      arr.sort((a,b) => (order[a.t] ?? 3) - (order[b.t] ?? 3) || cmp(a, b));
-      const tc = ["매매","전세","월세"].map(t => [t, arr.filter(x => x.t === t).length]).filter(([,n]) => n).map(([t,n]) => `${t} ${n}`).join(" · ");
-      const sc = arr.filter(isSean).length;
-      const mixed = new Set(arr.map(x => norm(x.c).replace(/[.\s]/g, ""))).size > 1;
-      const ts = ["매매","전세","월세"].filter(t => arr.some(x => x.t === t));
-      const rowsHTML = ts.map(t => {
-        const sub = arr.filter(x => x.t === t);
-        return `<tr class="tsub ${typeClass(t)}"><td colspan="4"><span class="pill ${typeClass(t)}">${esc(t)}</span><span class="tcount">${sub.length}건</span></td></tr>` +
-          sub.map(i => `<tr class="${i.n ? "newrow" : ""}">
-              <td class="dong">${esc(fmtDong(i.d))}${mixed ? `<span class="gsub">${esc(i.c)}</span>` : ""}</td>
-              <td class="fl">${esc(fmtFloor(i.f))}</td>
-              <td class="pr">${isNum(i.p) ? fmtPrice(i.p) : esc(i.p || "-")}${i.x ? `<span class="chg">${esc(i.x)}</span>` : ""}</td>
-              <td class="memo2">${i.n ? `<span class="newtag">이번 주 신규</span>` : ""}${isSean(i) ? `<mark class="lilac">${esc(i.m)}</mark>` : esc(i.m || "")}</td>
-            </tr>`).join("");
-      }).join("");
-      return `<details class="agroup" data-g="${esc(g)}"${closedG.has(g) ? "" : " open"}><summary><h2>${esc(g)}</h2><span class="meta">${tc}</span>${sc ? `<span class="sean">세안고 ${sc}</span>` : ""}</summary><div class="tscroll"><table class="av">
-        <colgroup><col class="c-dong"><col class="c-fl"><col class="c-pr"><col></colgroup>
-        <thead><tr><th>동</th><th>층</th><th>가격</th><th>상태·메모</th></tr></thead>
-        <tbody>${rowsHTML}</tbody></table></div></details>`;
-    }).join("");
+    const tt = AGG.tot;
+    $("stats").innerHTML = [["집계 단지·평형", AGG.groups.length, "개"], ["매매 호가", tt.sale, "건"], ["전세 호가", tt.jeon, "건"], ["이번 주 신규", tt.new, "건"], ["가격 내림", tt.down, "건"]]
+      .map(([k,v,u]) => `<div class="stat"><div class="k">${k}</div><div class="v">${v}<small>${u}</small></div></div>`).join("");
+    document.querySelectorAll(".seg button").forEach(b => b.setAttribute("aria-pressed", String(b.dataset.t === T)));
+    const cxs = ["전체", ...Array.from(new Set(AGG.groups.map(g => g.cx)))];
+    $("cxChips").innerHTML = `<span class="lab">단지</span>` + cxs.map(c => `<button type="button" class="chip" data-cx="${esc(c)}" aria-pressed="${c === CX}">${esc(c)}</button>`).join("");
+    const list = AGG.groups.filter(g => g[T] && (CX === "전체" || g.cx === CX));
+    if (!list.length){ $("cards").innerHTML = `<div class="empty">이 조건의 호가 정보가 없어요.</div>`; return; }
+    const lo = Math.min(...list.map(g => g[T].min)), hi = Math.max(...list.map(g => g[T].max));
+    const pos = v => hi === lo ? 50 : 4 + (v - lo) / (hi - lo) * 92;
+    $("cards").innerHTML = list.map(g => { const a = g[T];
+      const tags = [`${T === "sale" ? "매매" : "전세"} ${a.n}건`]
+        .concat(g.wol && T === "jeon" ? [`월세 ${g.wol}건`] : []);
+      return `<article class="mk">
+        <h2>${esc(g.cx)} <small>${esc(g.py)}</small></h2>
+        <div class="med">${eok(a.med)}<span>중간 호가</span></div>
+        <div class="rng" aria-hidden="true"><div class="bar" style="left:${pos(a.min)}%;right:${100 - pos(a.max)}%"></div><div class="dot" style="left:${pos(a.med)}%"></div></div>
+        <div class="rlab"><span>최저 <b>${short(a.min)}</b></span><span>최고 <b>${short(a.max)}</b></span></div>
+        <div class="tags">${tags.map(x => `<span class="tag">${x}</span>`).join("")}${g.new ? `<span class="tag new">이번 주 신규 ${g.new}</span>` : ""}${g.down ? `<span class="tag dn">가격 내림 ${g.down}</span>` : ""}</div>
+      </article>`; }).join("");
   }
-  $("typeChipsA").addEventListener("click", e => { const b = e.target.closest("button[data-ta]"); if (b){ typeA = b.dataset.ta; render(); } });
-  $("groupChipsA").addEventListener("click", e => { const b = e.target.closest("button[data-ga]"); if (b){ groupA = b.dataset.ga; render(); } });
-  $("qA").addEventListener("input", render);
-  $("sortA").addEventListener("change", e => { F.sort = e.target.value; render(); });
-  $("tNew").addEventListener("click", () => { F.nw = !F.nw; render(); });
-  $("tDown").addEventListener("click", () => { F.down = !F.down; render(); });
-  $("moreF").addEventListener("click", e => { const b = e.target.closest("button[data-k]"); if (b && !b.disabled){ F[b.dataset.k] = b.dataset.v; render(); } });
-  $("resetF").addEventListener("click", () => { F = Object.assign({}, F0); typeA = "전체"; groupA = "전체"; $("qA").value = ""; render(); });
-  $("listA").addEventListener("toggle", e => {
-    const d = e.target; if (!d.matches || !d.matches("details.agroup")) return;
-    if (d.open) closedG.delete(d.dataset.g); else closedG.add(d.dataset.g);
-    saveClosed();
-  }, true);
-  $("listA").addEventListener("click", e => {
-    const b = e.target.closest("button[data-fold]"); if (!b) return;
-    $("listA").querySelectorAll("details.agroup").forEach(d => { d.open = b.dataset.fold === "open"; });
-  });
+  document.querySelector(".seg").addEventListener("click", e => { const b = e.target.closest("button[data-t]"); if (b){ T = b.dataset.t; render(); } });
+  $("cxChips").addEventListener("click", e => { const b = e.target.closest("button[data-cx]"); if (b){ CX = b.dataset.cx; render(); } });
   // 전화 버튼: 바로 걸지 않고, 번호를 보여준 뒤 전화·문자·복사 중 고르게 한다.
   // 전화 걸기는 휴대폰 전화 앱에 번호만 입력된 상태로 열린다(통화 버튼은 본인이 누름).
   function toast(msg){ const t = $("toast"); t.textContent = msg; t.hidden = false; clearTimeout(t._h); t._h = setTimeout(() => t.hidden = true, 2500); }
